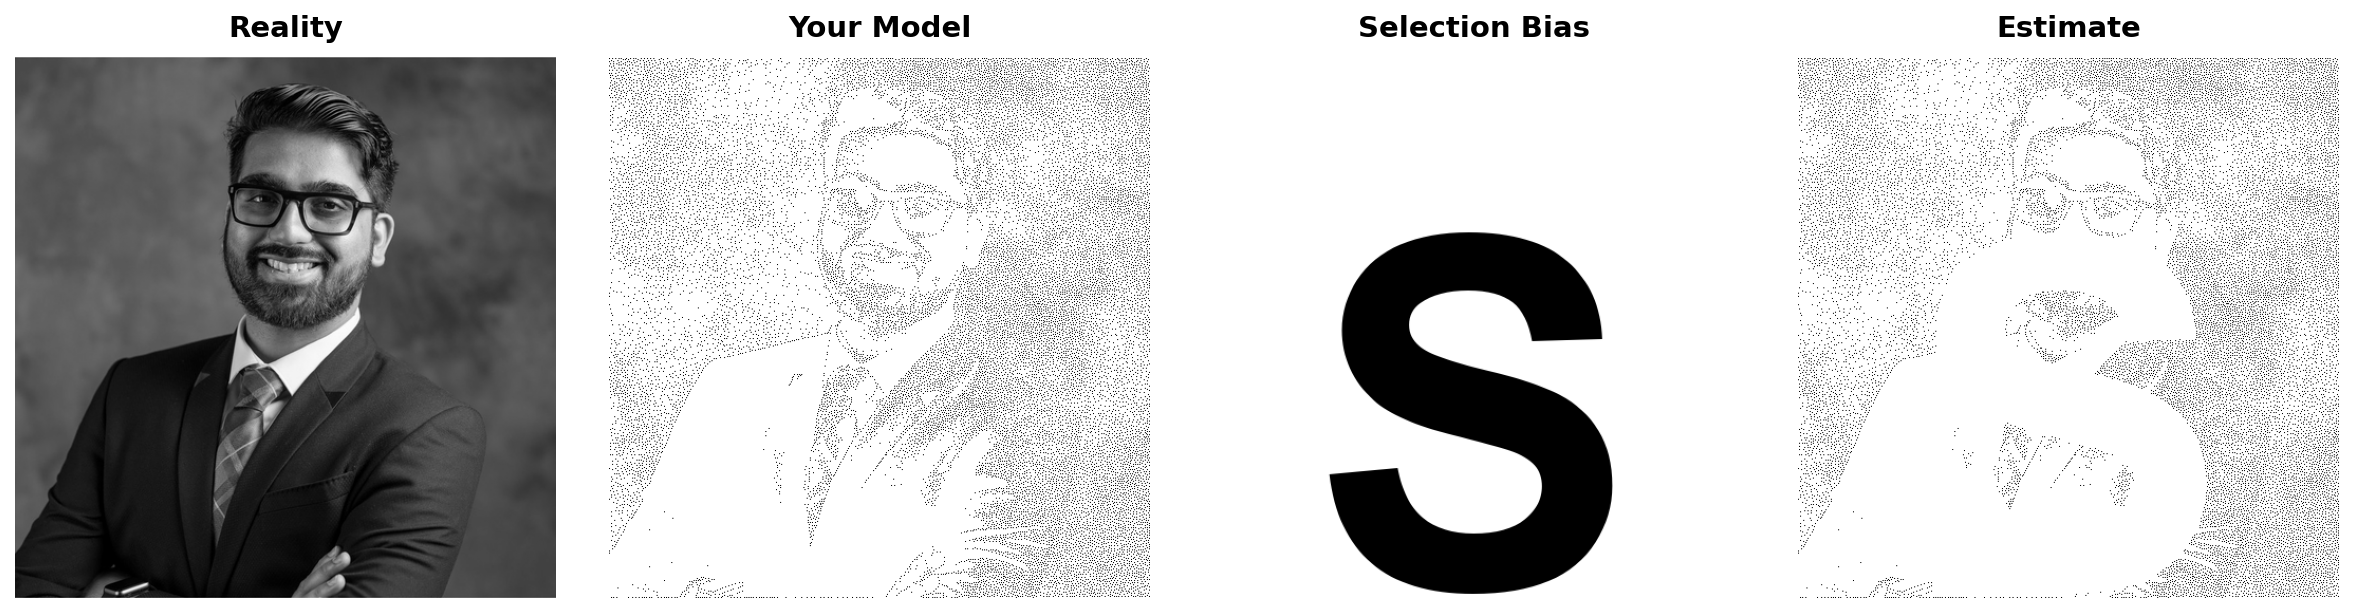
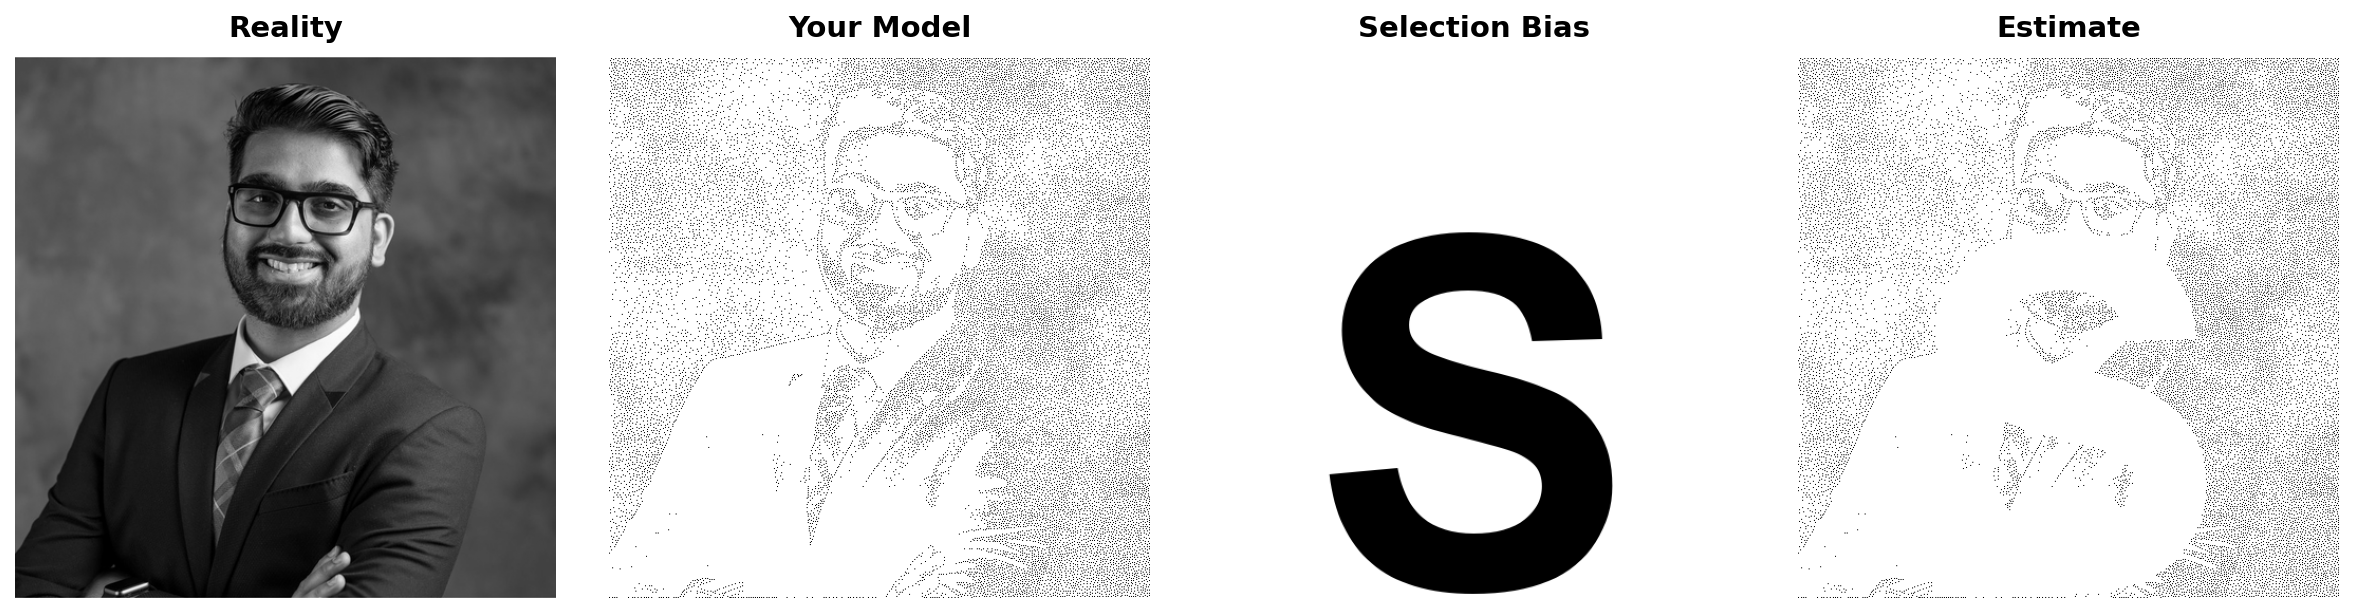
SAVE

diff --git a/index.html b/index.html
@@ -36,6 +36,35 @@ ul.task-list li input[type="checkbox"] {
 <link href="index_files/libs/bootstrap/bootstrap-icons.css" rel="stylesheet">
 <link href="index_files/libs/bootstrap/bootstrap-9e3ffae467580fdb927a41352e75a2e0.min.css" rel="stylesheet" append-hash="true" id="quarto-bootstrap" data-mode="light">
 
+  <script src="https://cdnjs.cloudflare.com/polyfill/v3/polyfill.min.js?features=es6"></script>
+  <script src="https://cdn.jsdelivr.net/npm/mathjax@3/es5/tex-chtml-full.js" type="text/javascript"></script>
+
+<script type="text/javascript">
+const typesetMath = (el) => {
+  if (window.MathJax) {
+    // MathJax Typeset
+    window.MathJax.typeset([el]);
+  } else if (window.katex) {
+    // KaTeX Render
+    var mathElements = el.getElementsByClassName("math");
+    var macros = [];
+    for (var i = 0; i < mathElements.length; i++) {
+      var texText = mathElements[i].firstChild;
+      if (mathElements[i].tagName == "SPAN" && texText && texText.data) {
+        window.katex.render(texText.data, mathElements[i], {
+          displayMode: mathElements[i].classList.contains('display'),
+          throwOnError: false,
+          macros: macros,
+          fleqn: false
+        });
+      }
+    }
+  }
+}
+window.Quarto = {
+  typesetMath
+};
+</script>
 
 </head>
 
@@ -338,7 +367,7 @@ Tone range: [0.072, 0.945]</code></pre>
 </section>
 <section id="step-1" class="level1">
 <h1>Step 1</h1>
-<div id="bde48ada" class="cell" data-execution_count="10">
+<div id="69232350" class="cell" data-execution_count="10">
 <div class="cell-output cell-output-stdout">
 <pre><code>Resized image from (800, 800) to (512, 512) for processing
 Final image shape: (512, 512) (should be 2D for grayscale)</code></pre>
@@ -347,7 +376,7 @@ Final image shape: (512, 512) (should be 2D for grayscale)</code></pre>
 </section>
 <section id="step-2" class="level1">
 <h1>Step 2</h1>
-<div id="a05d260f" class="cell" data-execution_count="11">
+<div id="a4642fa2" class="cell" data-execution_count="11">
 <div class="cell-output cell-output-stdout">
 <pre><code>Importance map computed
 Generating blue noise stippling pattern...
@@ -360,7 +389,7 @@ Number of background points (1.0 values): 241173</code></pre>
 </section>
 <section id="step-3-optional" class="level1">
 <h1>Step 3 (optional)</h1>
-<div id="800e7947" class="cell" data-execution_count="12">
+<div id="a4c0d143" class="cell" data-execution_count="12">
 <div class="cell-output cell-output-stdout">
 <pre><code>Created tonal analysis: grid 16×12
 Tonal statistics: mean=0.277, std=0.120
@@ -370,7 +399,7 @@ Tone range: [0.043, 0.647]</code></pre>
 </section>
 <section id="step-4" class="level1">
 <h1>Step 4</h1>
-<div id="f213230c" class="cell" data-execution_count="13">
+<div id="611a7013" class="cell" data-execution_count="13">
 <div class="cell-output cell-output-display">
 <div>
 <figure class="figure">
@@ -382,7 +411,7 @@ Tone range: [0.043, 0.647]</code></pre>
 </section>
 <section id="step-5" class="level1">
 <h1>Step 5</h1>
-<div id="c4a3c4fd" class="cell" data-execution_count="14">
+<div id="deab4037" class="cell" data-execution_count="14">
 <div class="cell-output cell-output-display">
 <div>
 <figure class="figure">
@@ -394,7 +423,7 @@ Tone range: [0.043, 0.647]</code></pre>
 </section>
 <section id="step-6" class="level1">
 <h1>Step 6</h1>
-<div id="34da8501" class="cell" data-execution_count="15">
+<div id="f38c48d5" class="cell" data-execution_count="15">
 <div class="cell-output cell-output-display">
 <div>
 <figure class="figure">
@@ -403,6 +432,17 @@ Tone range: [0.043, 0.647]</code></pre>
 </div>
 </div>
 </div>
+</section>
+<section id="elaborate-on-the-meme-and-the-selection-bias." class="level1">
+<h1>Elaborate on the meme and the selection bias.</h1>
+<p>This four-panel meme is designed as a direct visual metaphor to illustrate the statistical concept of Selection Bias, which occurs when the sample data collected is not representative of the true population.</p>
+<p>Elaborate Explanation: Visualizing Selection BiasThis four-panel meme is designed as a direct visual metaphor to illustrate the statistical concept of Selection Bias, which occurs when the sample data collected is not representative of the true population.</p>
+<p><strong>Key Components of the Meme</strong></p>
+<p>The image workflow mimics the process of moving from an objective reality to a biased statistical estimate:</p>
+<p><strong>Reality (Original Image):</strong> This represents the true population or the complete data structure we are trying to study. Since it is the original image, it contains <span class="math inline">\(100\%\)</span> of the information and is free from error or sampling effects.</p>
+<p><strong>Your Model (Stippled Image):</strong> This panel represents the process of data collection or sampling. The stippling algorithm converts the continuous tones of the image into discrete dots (data points). While the pattern retains the overall visual information, it is only a sample of the pixels, analogous to collecting data points (observations) from a population. This is the dataset available to the statistician.</p>
+<p><strong>Selection Bias (Block Letter “S” Mask):</strong> This is the crucial step. The bold letter “S” represents a systematic, non-random pattern of missing data (the “Selection” in selection bias). In real-world statistics, this pattern might be caused by factors like survey non-response from a specific demographic or technical limitations that systematically exclude certain types of observations.</p>
+<p><strong>Estimate (Masked Stippled Image):</strong> This panel shows the final dataset after the selection bias is applied. The “S”-shaped missing patch severely distorts the visual information and the underlying pattern of the stippled image. This visually demonstrates the outcome of selection bias: the conclusion or estimate drawn from the remaining data is biased and no longer accurately reflects the original Reality.</p>
 <section id="complete-checklist" class="level3">
 <h3 class="anchored" data-anchor-id="complete-checklist">Complete Checklist</h3>
 <p>To complete this challenge, you must:</p>
